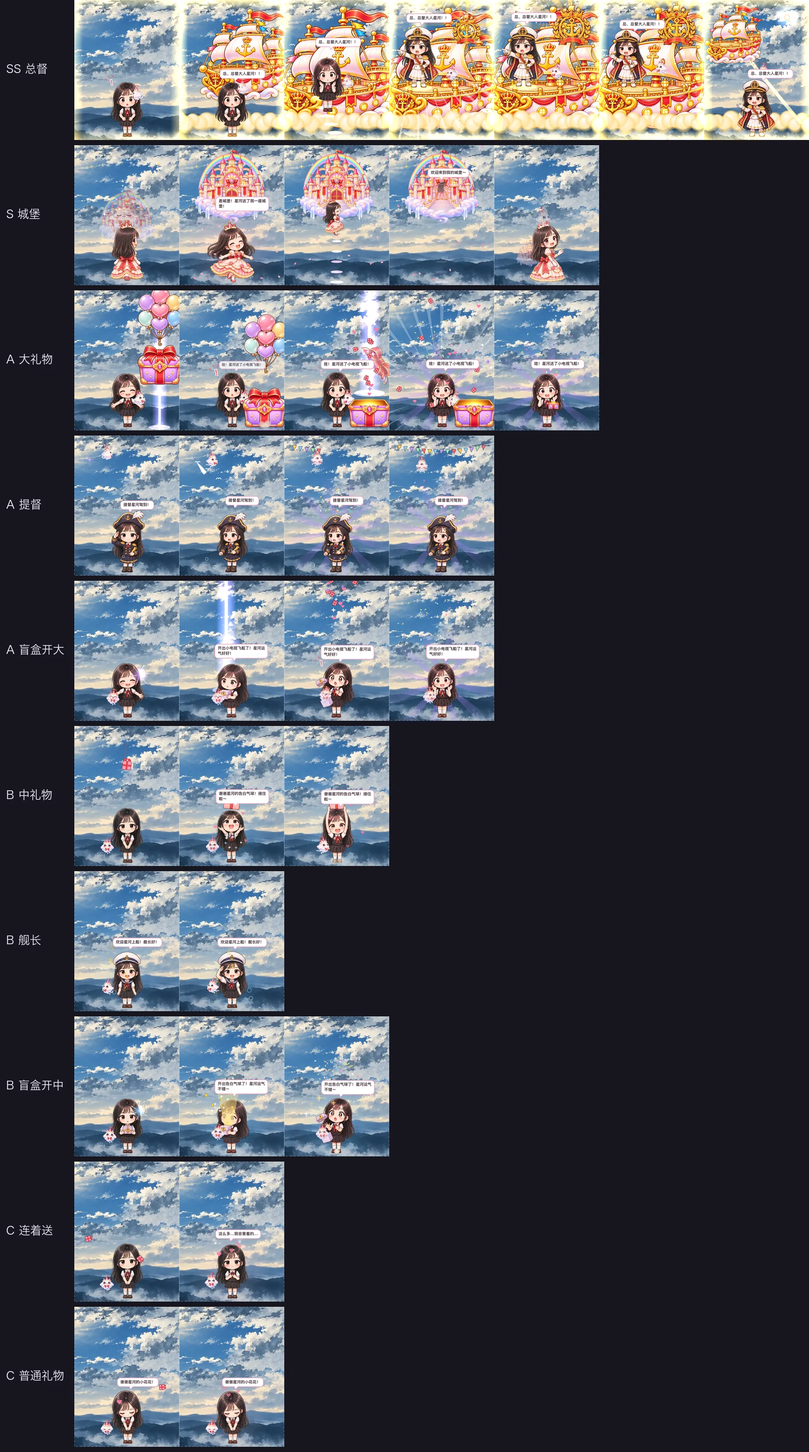
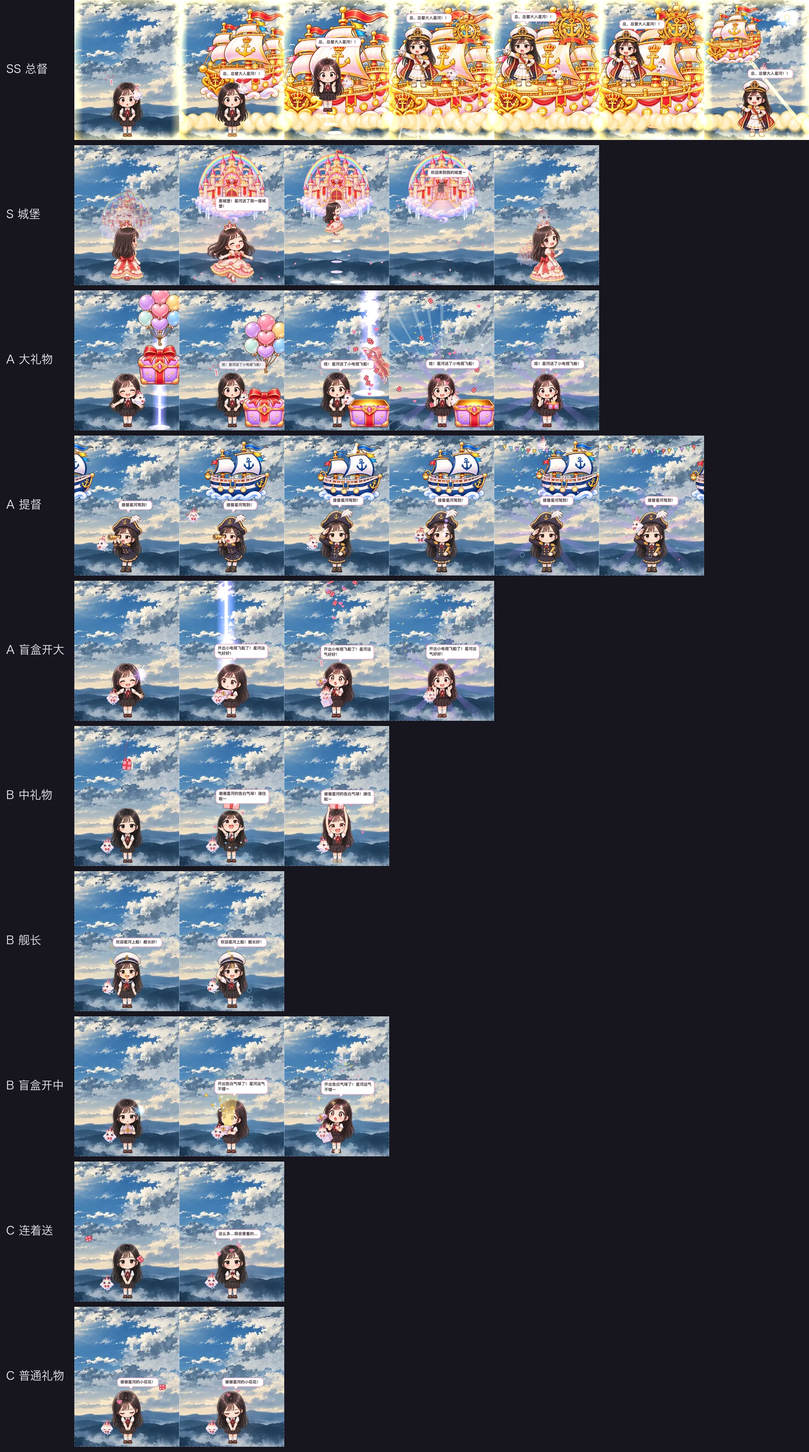
docs: the desktop pet's admiral gets her own ship, and the cheer, towel and hiking loops move right (#343)
The admiral's show was still too plain: her own ship (two masts, navy and white, less gold than the governor's flagship but not plain, drawn beside her at her size, 1.8 of her heights) now sails in from the left across the upper page behind her while she looks through the spyglass, sends a signal star from its masthead down onto her chest as she salutes, and sails out to the right under the signal flags. Cheering showed four arms at once (the drawing's arms stayed beside codex's): her upper body is now taken whole from the frames, the arms only wave a little inside the raised V, 220 ms a frame. The towel jumped from one side of her face to the other because its description said so; it now stays in the same hand on the same side. The hiking legs hardly moved; the walk is described stride, passing, other stride, passing, and gen-loop draws a walking loop again when its legs' outline changes less than 25% from frame 1. gen-loop now keeps codex's environment (it had dropped the proxy, and codex hung reconnecting).

diff --git a/docs/design/desktop-pet/boards/DP-DesktopPet.dc.html b/docs/design/desktop-pet/boards/DP-DesktopPet.dc.html
@@ -30,7 +30,8 @@ const BLOB = {
   emblem: '623e361fc77406c9262711ee81b482a5',
   giftbox: 'd3badcb665d3a5ab947c555dc35711a9',
   giftboxOpen: '3f6255e58365ab134617bb43ca9b477f',
-  balloons: 'd20bfdca5e26da967ed09c19e2171953'
+  balloons: 'd20bfdca5e26da967ed09c19e2171953',
+  admship: 'f20551b26d7a6b88d2a1290d07906da5'
 };
 // Every sheet's first cell is the same everyday standing drawing at the same size (gen-sheet.py draws the other cells
 // beside it), so it is every sheet's ruler and one scale fits them all.
@@ -49,12 +50,12 @@ const POSE = {
   capSalute: ['voyage', 1], govJump: ['voyage', 4], spyglass: ['voyage', 2], admSalute: ['voyage', 3], govPoint: ['voyage', 4], govWave: ['voyage', 5]
 };
 // Frame strips (textures/frames/<name>.webp, four frames in a row; tools/gen-frames.sh, tools/frame-patch.py), by blob.
-const FRAMES = {admOut: '8a8045355a623d68acfc52029c8841a7', admRaise: 'd2d4ed17ed52087444df30293d2696b0', announceIn: '67bd8c1e8793dc668515454c831f01f3', announceOut: '727cbd8779e3cfbeb66e63aea6d52986', awake: '7dff45f96f8afa599948e836d08db5ee', bikeIn: '1cfe277a82440613f6fcd68014743f29', bikeOut: '000db66bd517aa02f03e18662f6f5a30', bored: '9bde503d05645406b3874e7ce7c5e6f7', boredGloomy: '89b25f72028ce12e9ce60b50d2b2adf3', bowIn: '6c5a81a6ff12cc92171b1ee6a83dd3a6', boxOpen: 'fa71447b831ac81ca742010ff8b7ec57', brushUp: '0eab11425ea2c3573d1d10bfd9092105', capOut: '8017c7d6bdc433418c074ccc0844c3e9', capRaise: '30d30532e32f4da3275ce3bd0d329d73', cheer: 'd801de0c526dcfd5cdc102eefc1d1d53', cheerOut: '7aba5acd537b9c4f4b4517831cceaee3', clap: 'c5a840b398245670381c6e41cc24e575', clapOut: '0b358a767fbf33d45a4cf73452436b28', crackIn: '01cb1a37cda171945ad5ed38c58685b3', crackOut: 'bd2791d816ef5a7ec28baf9e63b75ed6', crashKnee: '3c91ba6cf61dbb7d27417076a3d1a731', crouchGloomy: '6dbf0a4983ab31b965aac41bdb8b2766', crownIn: 'aee77cc52647f785b17083bb8710ba70', curl: '4fb4dbdcdf8e689580a0b94d01496ece', curlDrop: '5b2591b3d2e7455d0925ca95bfd4ef1a', curlIn: 'cc1f3ee7a5a09af127ff69269dc61be3', curtsy: 'b90cd277e9f93a6e86d355bfd826e163', curtsyTurn: 'a0a880992fc33da52ca23c5097aafaf0', dejectedIn: '6c6565c56c617d26e938b33823a77b62', doze: '27f1f7d258dae9cd8c1a4f0fb4c34d1b', giftCheer: 'df0da21e74f2474f56868021a91fe58f', giftIn: '8664b6e7ebe4ef626cfcbaff7fd0eb2a', gloomy: '1ae6abc54fbb45127e4a865fd4ff92cd', gloomyDoze: '1d569f125c7cdf706445c14c0e5ab860', govIn: 'f0bce8e160a21d3193d7603201ec6649', govOut: '3c6eb6084d7a3f10ba50a50703cfcdc7', govPointWave: 'b39715eab29752d0c852deec88f1c14e', govWave: '23e285a2e68d30056546709df3889024', gymHop: 'e526af562be958ed4bce7b34f6e7658c', gymIn: '23317f355510b01999908ebce5c2c1db', gymOut: 'b655cfbb85b4a8caae52676563442c0d', hikeIn: '4e1c3d30d195ee5d86e39f3fba7a7968', hikeOut: '59cc9c8cead9e441af98f41d37481c11', hopSit: '79865866b71f0d6f54357e5a50175edd', hopeAnnounce: 'da03442a1df016febf5bc0d9cd27fcec', hopeCheer: 'd28ad9fc86c1e59dee6ac8b51d4dfd5d', hopeClap: 'a44decb7a7ed962d2cee38b91d243ac1', hopeIn: 'f608564e06e6cf0dda108cf0868a2d87', hopeNod: '25a897673f65574d54537b345029850c', hum: '037c3bf8f7fadbc5c2adaf0305899cf0', humIn: '76560ad0f962070a720ab211d69364d3', humWave: 'e8a2661f4ffbfacc50d77d3159160fdb', idle: '528beadfc04d1d591ee7057771afab95', jump: '46835a523d27d7b82fc2f2673657f47a', kneeRise: 'fe613d5ac8c1424cd4e6553675f88354', lookBackIn: 'fa859bb03ddf93d584c8e21b4d92545f', lookBackOut: 'e3539733da0c2b59f79eaea6866a7a37', mount: '2b24f3aa6d2a608407a22d4031f362ae', nod: '8d49e528bcd2aaa8bcd5e7d8fbe94aa5', nodOut: '4f274071432533a4f44522dd4b8baf89', openPout: 'f67dfabdde4d19fa468aecf56d8414d3', openSurprised: '708c47a6d8891f95daea06391cea0e48', pedal: '42c962e45330ceda6acffbc41ccf3069', pedalCrash: '3341dc19940eca3d4e7506d89609e6bb', pointIn: '1041f290497098db17e710fcffed6bbc', poutOut: 'f67ef4f471ea9058de6265f65e40a890', rubUp: 'e5632d8a7dea06e12b915dacf1d179d7', shakeBox: 'f4c6800928af98603e36db6314956857', shakeIn: '78ccb0fbac701231cf87785e5c5ecfe4', shakeSnow: '8268ccbbdfb89fd21b6029e07fba0f15', shy: 'a3abdceddc4d81cb31c39a7708617762', shyIn: '6e4c3085211198ef846005f9e527a08d', sitBored: '5d634deb99fd563d95762aae109de924', sitDoze: 'a95b681a7aa43c48df2861587b5bfae5', skiFall: '3dc757df0e22d502063953af3c5ec855', skiGlide: '2f6ea8efa98be75327342cce66054414', skiGo: 'f40b9977dcb4bcf241eac37a574c2d54', skiIn: 'fceb2834a0bd33e1dc3e0cfa0a205917', skiOut: '04a7e87a800b3c86f3aa7f45dd9100f3', skiPop: '6ff5bf2b70fe404b060325fef91af6cc', skiUp: '93e827573b0020cc33b933045459dd10', slipUp: '9146b4b71d48ce321f98622980fabf92', spFlag: '2e0e9fb19d5a8be126b12532f67cb877', spFly1: '83a5a48403903d4f39f9da51e0012294', spFly2: '87600b97c197c44a1cb9fc55cc76b84d', spFly3: '2f06f4e2aba9c2855b1c2fee22f6a1f4', spGlow: '0ae9d33e8e08c4cb20797bd64fcaeb0a', spHappy: '6fea3a2cde9432871a2a4a7b4b3a3b05', spHide: 'b3b7a681028216547fced194378e4642', spIdle: '70d620c5f164e57bd46e95154a9c8396', spNod: '631236e3cb235cf6e45d906ac4f70b41', spPat: '2e897fd4048e4fb2ba4e2fa9832931dd', spSleep: '5415e0a5fc476a9ac06e7427a3a9627c', spSurprised: '2a71af2381fb09f67fce34682a09c9e3', spYawn: '5dfd246affdea738a053630d72d7a726', spin: 'e4878b3f26f95745cc23b73f1ec071be', spinCurtsy: '9975e9a6a1a1968b344a8bf188423d91', spyRaise: '2d3ce641a512560c97e080a3cc39ce28', spySalute: 'b56e9494c23d8d3cd789e00f4ea9c907', surprisedCheer: '4da2805c40ccb8c90d12c1accec7f216', surprisedIn: '0d735d9fcd308c75bfe8adf66cff59d8', surprisedOut: 'a5776b0a77dc8a3b8d2f058d580a8956', trek: '1ae44e2bc4397524321578720f354589', trekIn: '0b9588db4b41791779771558e8b5064d', trekSlip: '8b403638ceb159d9731227ef6ef51474', walk: '6431ef43dbef6befe72a158e5cccdce7', wave: '273270295ba8e757e80c6e511b3955aa', waveIn: '45b35bc2f45fa3bf60405f8d5f4b20e6', wipe: 'd2e4c22d0fbe9a314220264802ca2019', wipeIn: 'd597045687c668c96935bf4a3dd615e1'};
+const FRAMES = {admOut: '8a8045355a623d68acfc52029c8841a7', admRaise: 'd2d4ed17ed52087444df30293d2696b0', announceIn: '67bd8c1e8793dc668515454c831f01f3', announceOut: '727cbd8779e3cfbeb66e63aea6d52986', awake: '7dff45f96f8afa599948e836d08db5ee', bikeIn: '1cfe277a82440613f6fcd68014743f29', bikeOut: '000db66bd517aa02f03e18662f6f5a30', bored: '9bde503d05645406b3874e7ce7c5e6f7', boredGloomy: '89b25f72028ce12e9ce60b50d2b2adf3', bowIn: '6c5a81a6ff12cc92171b1ee6a83dd3a6', boxOpen: 'fa71447b831ac81ca742010ff8b7ec57', brushUp: '0eab11425ea2c3573d1d10bfd9092105', capOut: '8017c7d6bdc433418c074ccc0844c3e9', capRaise: '30d30532e32f4da3275ce3bd0d329d73', cheer: 'bbc13f8939be672a6d9aa5f8dc980f30', cheerOut: '7aba5acd537b9c4f4b4517831cceaee3', clap: 'c5a840b398245670381c6e41cc24e575', clapOut: '0b358a767fbf33d45a4cf73452436b28', crackIn: '01cb1a37cda171945ad5ed38c58685b3', crackOut: 'bd2791d816ef5a7ec28baf9e63b75ed6', crashKnee: '3c91ba6cf61dbb7d27417076a3d1a731', crouchGloomy: '6dbf0a4983ab31b965aac41bdb8b2766', crownIn: 'aee77cc52647f785b17083bb8710ba70', curl: '4fb4dbdcdf8e689580a0b94d01496ece', curlDrop: '5b2591b3d2e7455d0925ca95bfd4ef1a', curlIn: 'cc1f3ee7a5a09af127ff69269dc61be3', curtsy: 'b90cd277e9f93a6e86d355bfd826e163', curtsyTurn: 'a0a880992fc33da52ca23c5097aafaf0', dejectedIn: '6c6565c56c617d26e938b33823a77b62', doze: '27f1f7d258dae9cd8c1a4f0fb4c34d1b', giftCheer: 'df0da21e74f2474f56868021a91fe58f', giftIn: '8664b6e7ebe4ef626cfcbaff7fd0eb2a', gloomy: '1ae6abc54fbb45127e4a865fd4ff92cd', gloomyDoze: '1d569f125c7cdf706445c14c0e5ab860', govIn: 'f0bce8e160a21d3193d7603201ec6649', govOut: '3c6eb6084d7a3f10ba50a50703cfcdc7', govPointWave: 'b39715eab29752d0c852deec88f1c14e', govWave: '23e285a2e68d30056546709df3889024', gymHop: 'e526af562be958ed4bce7b34f6e7658c', gymIn: '23317f355510b01999908ebce5c2c1db', gymOut: 'b655cfbb85b4a8caae52676563442c0d', hikeIn: '4e1c3d30d195ee5d86e39f3fba7a7968', hikeOut: '59cc9c8cead9e441af98f41d37481c11', hopSit: '79865866b71f0d6f54357e5a50175edd', hopeAnnounce: 'da03442a1df016febf5bc0d9cd27fcec', hopeCheer: 'd28ad9fc86c1e59dee6ac8b51d4dfd5d', hopeClap: 'a44decb7a7ed962d2cee38b91d243ac1', hopeIn: 'f608564e06e6cf0dda108cf0868a2d87', hopeNod: '25a897673f65574d54537b345029850c', hum: '037c3bf8f7fadbc5c2adaf0305899cf0', humIn: '76560ad0f962070a720ab211d69364d3', humWave: 'e8a2661f4ffbfacc50d77d3159160fdb', idle: '528beadfc04d1d591ee7057771afab95', jump: '46835a523d27d7b82fc2f2673657f47a', kneeRise: 'fe613d5ac8c1424cd4e6553675f88354', lookBackIn: 'fa859bb03ddf93d584c8e21b4d92545f', lookBackOut: 'e3539733da0c2b59f79eaea6866a7a37', mount: '2b24f3aa6d2a608407a22d4031f362ae', nod: '8d49e528bcd2aaa8bcd5e7d8fbe94aa5', nodOut: '4f274071432533a4f44522dd4b8baf89', openPout: 'f67dfabdde4d19fa468aecf56d8414d3', openSurprised: '708c47a6d8891f95daea06391cea0e48', pedal: '42c962e45330ceda6acffbc41ccf3069', pedalCrash: '3341dc19940eca3d4e7506d89609e6bb', pointIn: '1041f290497098db17e710fcffed6bbc', poutOut: 'f67ef4f471ea9058de6265f65e40a890', rubUp: 'e5632d8a7dea06e12b915dacf1d179d7', shakeBox: 'f4c6800928af98603e36db6314956857', shakeIn: '78ccb0fbac701231cf87785e5c5ecfe4', shakeSnow: '8268ccbbdfb89fd21b6029e07fba0f15', shy: 'a3abdceddc4d81cb31c39a7708617762', shyIn: '6e4c3085211198ef846005f9e527a08d', sitBored: '5d634deb99fd563d95762aae109de924', sitDoze: 'a95b681a7aa43c48df2861587b5bfae5', skiFall: '3dc757df0e22d502063953af3c5ec855', skiGlide: '2f6ea8efa98be75327342cce66054414', skiGo: 'f40b9977dcb4bcf241eac37a574c2d54', skiIn: 'fceb2834a0bd33e1dc3e0cfa0a205917', skiOut: '04a7e87a800b3c86f3aa7f45dd9100f3', skiPop: '6ff5bf2b70fe404b060325fef91af6cc', skiUp: '93e827573b0020cc33b933045459dd10', slipUp: '9146b4b71d48ce321f98622980fabf92', spFlag: '2e0e9fb19d5a8be126b12532f67cb877', spFly1: '83a5a48403903d4f39f9da51e0012294', spFly2: '87600b97c197c44a1cb9fc55cc76b84d', spFly3: '2f06f4e2aba9c2855b1c2fee22f6a1f4', spGlow: '0ae9d33e8e08c4cb20797bd64fcaeb0a', spHappy: '6fea3a2cde9432871a2a4a7b4b3a3b05', spHide: 'b3b7a681028216547fced194378e4642', spIdle: '70d620c5f164e57bd46e95154a9c8396', spNod: '631236e3cb235cf6e45d906ac4f70b41', spPat: '2e897fd4048e4fb2ba4e2fa9832931dd', spSleep: '5415e0a5fc476a9ac06e7427a3a9627c', spSurprised: '2a71af2381fb09f67fce34682a09c9e3', spYawn: '5dfd246affdea738a053630d72d7a726', spin: 'e4878b3f26f95745cc23b73f1ec071be', spinCurtsy: '9975e9a6a1a1968b344a8bf188423d91', spyRaise: '2d3ce641a512560c97e080a3cc39ce28', spySalute: 'b56e9494c23d8d3cd789e00f4ea9c907', surprisedCheer: '4da2805c40ccb8c90d12c1accec7f216', surprisedIn: '0d735d9fcd308c75bfe8adf66cff59d8', surprisedOut: 'a5776b0a77dc8a3b8d2f058d580a8956', trek: '618dc828f2bb538f4b79c5f87875d702', trekIn: '0b9588db4b41791779771558e8b5064d', trekSlip: '8b403638ceb159d9731227ef6ef51474', walk: '6431ef43dbef6befe72a158e5cccdce7', wave: '273270295ba8e757e80c6e511b3955aa', waveIn: '45b35bc2f45fa3bf60405f8d5f4b20e6', wipe: '425564cb708fb55366cc63907634a992', wipeIn: 'd597045687c668c96935bf4a3dd615e1'};
 // Poses that move: the strip f, drawn from the pose's own cell, as a loop at ms per frame, a loop of [frame, ms] steps, or
 // once: [frame, ms] steps from when the pose begins, holding the last.
 const STRIP = {
   bike: { f: 'pedal', ms: 110 }, hike: { f: 'trek', ms: 170 }, walkA: { f: 'walk', ms: 200 }, curl: { f: 'curl', ms: 200 },
-  hum: { f: 'hum', ms: 320 }, wave: { f: 'wave', ms: 150 }, clap: { f: 'clap', ms: 110 }, nod: { f: 'nod', ms: 190 }, cheer: { f: 'cheer', ms: 160 },
+  hum: { f: 'hum', ms: 320 }, wave: { f: 'wave', ms: 150 }, clap: { f: 'clap', ms: 110 }, nod: { f: 'nod', ms: 190 }, cheer: { f: 'cheer', ms: 220 },
   shy: { f: 'shy', ms: 220 }, gloomy: { f: 'gloomy', ms: 260 }, doze: { f: 'doze', ms: 700 }, gymHurt: { f: 'gymHop', ms: 140 }, gymWipe: { f: 'wipe', ms: 200 },
   shakeBox: { f: 'shakeBox', ms: 90 }, govWave: { f: 'govWave', ms: 170 }, spin: { f: 'spin', ms: 110 },
   idle: { f: 'idle', loop: [[0, 3400], [1, 50], [2, 70], [3, 50]] }, bored: { f: 'bored', loop: [[0, 2600], [1, 160], [2, 500], [3, 160]] },
@@ -127,8 +128,7 @@ const EVENT_FX = {
     shake: [[2800, 2, 200], [3400, 3, 260]]
   },
   提督: {
-    fx: [['shockwave', 700], ['splash', 700], ['distantStar', 1000, 2100, { x: 70, y: 110 }], ['comet', 3100, 1200, { x: 70, y: 110 }], ['spark', 4300, 0.55, 0.6, 12],
-      ['rays', 4300, 2400, 0.5], ['flagLine', 4300, 2600], ['confetti', 4400]],
+    fx: [['shockwave', 700], ['splash', 700], ['spark', 4300, 0.55, 0.6, 12], ['rays', 4300, 2400, 0.5], ['flagLine', 4300, 2600], ['confetti', 4400]],
     shake: [[700, 2, 200], [4300, 3, 240]]
   },
   城堡: {
@@ -206,6 +206,8 @@ const SPRITE_H = 76, NAME_MAX = 8;
 // flagship's bow deck where she stood when it was drawn, and its mainmast top for the sprite.
 const ANCHOR = 360;
 const PROPS = { flagship: { deck: [250, 530], mast: [450, 60] } };
+// The admiral's ship sails across the upper page behind her, farther off (s), its bottom on y; mast: its masthead (prop px).
+const ADM_SHIP = { x: 300, y: 300, s: 0.6, mast: [435, 25] };
 // Where the flagship's bow deck stops on the page: she stands there at her full size.
 const SHIP_DECK = { x: 133, y: 398 };
 // The sports (README 6), each in its own outfit: the sprite dresses her for it, she gets ready and goes for act ms; then
@@ -287,7 +289,7 @@ class Component extends DCLogic {
       if (im) this.sstrips[key] = [0, 1, 2, 3].map(i => ({ im, ...box(im, i * im.width / 4, 0, im.width / 4, im.height), cx: c.cx - c.ox + i * im.width / 4, cy: c.cy - c.oy, ruler: c.ruler }));
     }
     this.castle = { closed: img.castleClosed, open: img.castleOpen, box: box(img.castleClosed, 0, 0, img.castleClosed.width, img.castleClosed.height) };
-    this.props = { flagship: img.flagship, emblem: img.emblem, giftbox: img.giftbox, giftboxOpen: img.giftboxOpen, balloons: img.balloons };
+    this.props = { flagship: img.flagship, admship: img.admship, emblem: img.emblem, giftbox: img.giftbox, giftboxOpen: img.giftboxOpen, balloons: img.balloons };
     this.day = img.day;
     const idle = this.cells.common[0];
     this.herLeft = (idle.x - idle.cx) * H / idle.ruler;  // her left edge standing idle, from her centre
@@ -468,8 +470,14 @@ class Component extends DCLogic {
       case '提督':
         // dressed by the sprite, then it is her lookout: it flies ahead where she looks, signals with its flag, and comes
         // back to salute with her
-        // she sights a star far up at the top left; it comes down as a comet onto her chest and she salutes while the
-        // sprite strings signal flags across the top of the page
+        // she sights her ship through the spyglass: it sails in from the left across the upper page, behind her; as it
+        // passes, a signal star from its masthead comes down onto her chest and she salutes, the sprite strings signal
+        // flags across the top, and the ship sails on out to the right
+        {
+          const im = this.props.admship, k = H / ANCHOR * ADM_SHIP.s, x = -im.width * k / 2 + (ADM_SHIP.x + im.width * k / 2) * ease(k01(t, 900, 3000)) + (PAGE.w + im.width * k / 2 - ADM_SHIP.x) * ease(k01(t, 4600, 6600));
+          st.admShip = { x, y: ADM_SHIP.y + 4 * Math.sin(t / 450), a: k01(t, 900, 1300) };
+          st.fx.push(['comet', 3100, 1200, { x: x + (ADM_SHIP.mast[0] - im.width / 2) * k, y: ADM_SHIP.y - (im.height - ADM_SHIP.mast[1]) * k }]);
+        }
         if (t < 700) this.dress(st, t, 0, 700);
         else {
           st.pose = t < 3100 ? 'spyglass' : 'admSalute';
@@ -755,6 +763,7 @@ class Component extends DCLogic {
     const shake = this.shakeOf(st, now); g.translate(shake.x, shake.y);
     if (st.castle) this.drawCastle(g, st.castle);
     if (st.ship) this.drawShip(g, st.ship);
+    if (st.admShip) this.drawProp(g, this.props.admship, st.admShip.x, st.admShip.y, ADM_SHIP.s, st.admShip.a);
     if (st.emblem) this.drawProp(g, this.props.emblem, st.emblem.x, st.emblem.y + this.props.emblem.height * H / ANCHOR * st.emblem.s / 2, st.emblem.s, st.emblem.a);
     const rt = performance.now(), dt = Math.min(100, rt - (this.rt ?? rt)) * this.cfg.speed;
     this.rt = rt;
@@ -1242,14 +1251,7 @@ class Component extends DCLogic {
         }
         break;
       }
-      // the admiral sights a star far off at the top left through the spyglass ...
-      case 'distantStar': {
-        const dur = f[2] || 2000; if (t > dur) break;
-        const p = f[3], a = life(t, 300, dur - 600, 300);
-        if (t < 500) { g.save(); g.globalAlpha = 1 - t / 500; g.strokeStyle = glow(1); g.lineWidth = 3; g.beginPath(); g.arc(p.x, p.y, 20 + t * 0.08, 0, Math.PI * 2); g.stroke(); g.restore(); }
-        star(p.x, p.y, (12 + 4 * Math.sin(t / 120)) * a, '#fff', a); star(p.x, p.y, 20 * a, glow(1), 0.5 * a); break;
-      }
-      // ... which comes down as a comet across the whole page onto her chest
+      // a signal star coming down as a comet across the page onto her chest (from the admiral's masthead)
       case 'comet': {
         const dur = f[2] || 1200; if (t > dur) break;
         const p0 = f[3], p1 = at(0.55, 0.6), pos = u => { const p = (u / dur) ** 1.6; return { x: p0.x + (p1.x - p0.x) * p, y: p0.y + (p1.y - p0.y) * p - 60 * Math.sin(Math.PI * p) }; };

diff --git a/docs/design/desktop-pet/preview/tier-storyboards.html b/docs/design/desktop-pet/preview/tier-storyboards.html
@@ -103,7 +103,7 @@ a:focus-visible { outline: 2px solid var(--gold); outline-offset: 2px; }
   </section>
 
   <section class="tier" style="--c:#c4a2ff">
-    <div class="tierhead"><h2>A 提督、大礼物、盲盒开出 1 万以上</h2><span>5–7 秒 · 紫色带金点 · 整页上下，但没有建筑：一样东西从页面顶上下来或冲到顶上去</span></div>
+    <div class="tierhead"><h2>A 提督、大礼物、盲盒开出 1 万以上</h2><span>5–7 秒 · 紫色带金点 · 整页上下：一样东西从页面顶上下来或冲到顶上去；提督有自己的船从身后驶过</span></div>
     <h3>大礼物（1 万电池以上）约 6 秒</h3>
     <div class="maps" data-maps="bigGift"></div>
     <div class="tablebox"><table class="sb">
@@ -120,9 +120,9 @@ a:focus-visible { outline: 2px solid var(--gold); outline-offset: 2px; }
     <div class="tablebox"><table class="sb">
       <tr><th>时间</th><th>画面</th><th>用到哪</th></tr>
       <tr><td>① 0–1 秒</td><td>精灵转圈，换上提督服</td><td>她</td></tr>
-      <tr><td>② 1–3 秒</td><td>她举起望远镜望向左上；页面左上角远处一颗紫金色的星闪起，那里一圈望远镜视野似的光环一闪</td><td>她 → 左上</td></tr>
-      <tr><td>③ 3–4.5 秒</td><td>那颗星化成彗星，拖着紫色长尾从左上斜划过整页，落到她胸前，紫金光芒炸开、震一下</td><td>对角线整页</td></tr>
-      <tr><td>④ 4.5–6.5 秒</td><td>她敬礼；精灵从左到右拉一串彩色信号旗横过页面上沿（船上庆典挂满旗）；身后光芒、彩带</td><td>上沿、她</td></tr>
+      <tr><td>② 1–3 秒</td><td>她举起望远镜望向左边：她的提督舰（比旗舰小、两根桅杆、藏蓝白色）从左边驶进来，在她身后横过页面上半部</td><td>左 → 上半页</td></tr>
+      <tr><td>③ 3–4.5 秒</td><td>船驶过正中时桅顶发出一颗信号星，化成彗星拖着紫色长尾落到她胸前，紫金光芒炸开、震一下</td><td>上半页 → 她</td></tr>
+      <tr><td>④ 4.5–6.5 秒</td><td>她敬礼；精灵从左到右拉一串彩色信号旗横过页面上沿；船往右边驶出去；身后光芒、彩带</td><td>上沿、右</td></tr>
       <tr><td>⑤ 6.5–7 秒</td><td>精灵转圈换回</td><td>她</td></tr>
     </table></div>
 
@@ -271,7 +271,7 @@ const MAPS = {
     { title: '开盒、欢呼 ④⑤', items: [['rays', 200, 500], ['beam', 350, 0, 470], ['rect', 290, 470, 120, 140, '大礼盒'], ['arrow', [[330, 150], [380, 70], [430, 0]], '③ 气球飞走', [400, 120]], ['bursts', [[110, 110], [240, 60], [440, 230], [70, 280], [200, 220]], 20], ['label', 200, 160, '④ 光柱到顶、礼物喷满'], ['rain', 1], ['her', 200, 626]] }
   ],
   admiral: [
-    { title: '望远镜、彗星、满旗 ②–④', items: [['flags', 34, 20, 460], ['label', 240, 74, '④ 信号旗横过上沿'], ['circle', 70, 130, 26, ''], ['label', 96, 176, '② 左上远处一颗星'], ['arrow', [[215, 440], [150, 300], [92, 160]], '', null, true], ['arrow', [[90, 160], [180, 320], [236, 468]], '③ 彗星斜划整页', [330, 300]], ['rays', 240, 480], ['her', 240, 626]] }
+    { title: '提督舰驶过、信号星、满旗 ②–④', items: [['flags', 34, 20, 460], ['label', 240, 74, '④ 信号旗横过上沿'], ['rect', 160, 70, 280, 230, '提督舰（上半页）'], ['arrow', [[10, 200], [80, 190], [150, 195]], '② 从左边驶进', [90, 250]], ['arrow', [[440, 200], [460, 195], [478, 200]], ''], ['label', 420, 320, '④ 往右驶出'], ['arrow', [[215, 440], [120, 300], [40, 210]], '', null, true], ['arrow', [[220, 110], [260, 300], [236, 468]], '③ 信号星落到胸前', [340, 380]], ['rays', 240, 480], ['her', 240, 626]] }
   ],
   boxA: [
     { title: '开盒 ②③', items: [['beam', 240, 0, 470], ['circle', 240, 200, 40, '② 大星'], ['bursts', [[90, 150], [400, 130], [120, 330], [370, 320]], 22], ['label', 240, 28, '③ 炸开、洒满整页'], ['rain', 1], ['her', 240, 626]] }

diff --git a/docs/design/desktop-pet/tools/gen-loop.py b/docs/design/desktop-pet/tools/gen-loop.py
@@ -3,12 +3,14 @@
 python gen-loop.py <pose> <out dir> [--tries 3]
 
 gen-frames.sh hands codex the cell as frame 1 of a 2 x 2 grid and codex draws frames 2-4 beside it; frame-patch.py
-keeps only what moves (OPTIONS per pose). Every frame's face is then measured against the cell's own (petlib.find_face, the two
-eyes together): a frame more than GATE bigger or smaller is drawn again, the whole loop, up to --tries times; frames whose
-eyes cannot be found (closed, turned away) are not measured. Nothing is scaled afterwards.
+keeps only what moves (OPTIONS per pose). Every frame's face is then measured against the cell's own (petlib.find_face,
+the two eyes together): a frame more than GATE bigger or smaller is drawn again, the whole loop, up to --tries times;
+frames whose eyes cannot be found (closed, turned away) are not measured. A walking loop whose legs hardly change is drawn
+again too (LEGS_MOVE). Nothing is scaled afterwards.
 
 Out: <strip>-strip.png (the four frames in a row, each the cell's size, as the board plays them) and <strip>-check.png.
 """
+import os
 import subprocess
 import sys
 from pathlib import Path
@@ -22,10 +24,14 @@ GATE = 0.06
 # frame-patch.py options: the head kept where it does not move; frame 1 the drawing itself for a loop played in its place
 # (a blink); codex's frame 1 as the base where its still parts do not meet the drawing (the bike); the legs always taken
 # from the frames for walking (nothing of the drawing's feet left behind)
-OPTIONS = {"wave": ["--head"], "clap": ["--head"], "cheer": ["--head"], "curl": ["--head"], "shakeBox": ["--head"],
+OPTIONS = {"wave": ["--head"], "clap": ["--head"], "cheer": ["upper", "--head"], "curl": ["--head"], "shakeBox": ["--head"],
            "govWave": ["--head"], "gymWipe": ["--head"], "capSalute": ["--head"], "admSalute": ["--head"],
            "spyglass": ["--head"], "bike": ["--head", "--from-first"], "idle": ["--ref-first"], "bored": ["--ref-first"],
            "hike": ["legs"], "walkA": ["legs"]}
+# loops whose legs must stride: frame 3 is the other stride and frame 2 passes between, so at least LEGS_GATE of the legs'
+# outline changes from frame 1 in each (codex drew the hiking legs almost the same in every frame: 0.07 in frame 3); the
+# castle walk (feet under a gown) and pedalling change a smaller area and are not held to it
+LEGS_MOVE, LEGS_GATE = {"hike"}, 0.25
 
 
 def main():
@@ -42,9 +48,11 @@ def main():
     cell = cells(SHEET[key])[i]
     opts = []
     for o in OPTIONS.get(pose, []):
+        x0, y0, x1, y1 = bbox(cell)
         if o == "legs":  # the lower 40% of her, across her whole width
-            x0, y0, x1, y1 = bbox(cell)
             opts += ["--take", f"{x0 - 10},{int(y0 + 0.6 * (y1 - y0))},{x1 + 10},{y1 + 4}"]
+        elif o == "upper":  # her upper 55%, arms and all, so no arm of the drawing's stays beside codex's (four arms)
+            opts += ["--take", f"{x0 - 40},{max(0, y0 - 40)},{x1 + 40},{int(y0 + 0.55 * (y1 - y0))}"]
         else:
             opts.append(o)
     face = eye_ref(standing())
@@ -54,7 +62,7 @@ def main():
     for t in range(tries):
         name = f"{strip}-try{t + 1}"
         try:
-            subprocess.run(["zsh", str(T / "gen-frames.sh"), str(out), name, ref, strip], check=True, cwd=PKG, env={"PYTHON": py, "PATH": "/usr/bin:/bin:/usr/local/bin:/opt/homebrew/bin"}, capture_output=True, timeout=900)
+            subprocess.run(["zsh", str(T / "gen-frames.sh"), str(out), name, ref, strip], check=True, cwd=PKG, env={**os.environ, "PYTHON": py}, capture_output=True, timeout=900)
             subprocess.run([py, "-I", str(T / "frame-patch.py"), *opts, ref, str(out / f"{name}-frames.png"), str(out / f"{name}.png"), str(out / f"{name}-check.png")], check=True, cwd=PKG, capture_output=True)
         except subprocess.CalledProcessError as e:
             print(f"try {t + 1}: {e.stderr.decode()[-300:] if e.stderr else 'failed'}")
@@ -66,7 +74,14 @@ def main():
             m, _, _, sc = find_face(s[:, k * w:(k + 1) * w], face)
             sizes.append(sc / s0 if m >= FACE_MATCH and m0 >= FACE_MATCH else None)
         off = max([abs(v - 1) for v in sizes if v is not None], default=0)
-        print(f"try {t + 1}: faces " + " ".join("-" if v is None else f"x{v:.2f}" for v in sizes))
+        moved = None
+        if pose in LEGS_MOVE:  # how much of her legs' outline differs from frame 1 in frames 2 and 3
+            x0, y0, x1, y1 = bbox(cell)
+            legs = [s[int(y0 + 0.6 * (y1 - y0)):y1 + 4, k * w + max(0, x0 - 10):k * w + x1 + 10, 3] > 40 for k in range(4)]
+            moved = min(1 - (legs[0] & legs[k]).sum() / (legs[0] | legs[k]).sum() for k in (1, 2))
+            if moved < LEGS_GATE:
+                off = max(off, 1)  # the legs did not stride: drawn again
+        print(f"try {t + 1}: faces " + " ".join("-" if v is None else f"x{v:.2f}" for v in sizes) + ("" if moved is None else f"; legs changed {moved:.2f}"))
         if best is None or off < best[0]:
             best = (off, name)
         if off <= GATE:

diff --git a/docs/design/desktop-pet/tools/gen-prop.py b/docs/design/desktop-pet/tools/gen-prop.py
@@ -27,7 +27,8 @@ GATE = 0.04  # how far codex may redraw her bigger or smaller
 PROPS = {"flagship": ((1536, 1024), (170, 990), [], (2.0, 2.45)),
          "emblem": ((1024, 1024), (230, 900), [], None),
          "giftbox": ((1024, 1024), (300, 900), [], None),
-         "balloons": ((1024, 1024), (230, 900), [], None)}
+         "balloons": ((1024, 1024), (230, 900), [], None),
+         "admship": ((1536, 1024), (170, 990), [PKG / "textures/flagship.webp"], (1.5, 1.9))}
 DRAW = ("Use your built-in image generation tool (not code) to edit the LAST attached image into ONE new image, then copy "
         "the generated PNG file to {out}. Do not write any code. The last attached image is a canvas of perfectly flat "
         "solid #00FF00 green with a chibi girl already standing in it: keep her exactly as she is, the same size, in the "

diff --git a/docs/design/desktop-pet/README.md b/docs/design/desktop-pet/README.md
@@ -111,12 +111,12 @@
 | 盲盒开中 | B | 摇盲盒（盒缝透出蓝光）→ 打开 → 惊讶 → 欢呼 | 凑近听 → 被冲开、惊讶 → 在她旁边蹦 | 盒里射出光、金币和星星喷到页面中段 | 盲盒开中 | 4 秒 |
 | 盲盒开大 | A | 摇盲盒（盒缝透出紫光）→ 打开，紫色光柱冲到页面顶，一颗大星升到页面中上 → 大星炸开，星光、爱心、小礼物洒满整页 → 惊讶 → 欢呼 | 凑近听 → 被冲开、惊讶 → 在她旁边蹦 | 紫色旋转光芒、集中线、彩带 | 盲盒开大 | 6 秒 |
 | 大礼物 | A | 一束紫光从页面顶上打到她右前方 → 一束气球吊着大礼盒顺着光飘下来、落地（她转头惊讶）→ 气球飞走，盒盖弹飞，紫色光柱冲到页面顶，星星、爱心、小礼物喷满上半页再落下 → 欢呼 → 礼盒缩成一颗星飞进她怀里 | 抬头看 → 被她抛起、绕她转圈 | 紫色旋转光芒铺满整页、集中线、彩带 | 大礼物 | 6 秒 |
-| 提督 | A | 精灵转圈换装 → 举起望远镜望向左上，远处一颗星一闪 → 星化成彗星斜划过整页落到她胸前 → 抬手敬礼 → 精灵转圈换回 | 转圈换装、换上水手领，飞去她望远镜看的方向挥旗，再从左到右拉一串信号旗横过页面上沿（船上庆典挂满旗），最后转圈换回 | 换装闪光、海鸥、彗星、紫色光芒、信号旗、彩带 | 提督 | 7 秒 |
+| 提督 | A | 精灵转圈换装 → 举起望远镜望向左边：她的提督舰从左边驶进来，在她身后横过页面上半部 → 船驶过正中时桅顶发出一颗信号星，化成彗星落到她胸前 → 抬手敬礼 → 船往右边驶出去 → 精灵转圈换回 | 转圈换装、换上水手领，飞去她望远镜看的方向挥旗，再从左到右拉一串信号旗横过页面上沿（船上庆典挂满旗），最后转圈换回 | 提督舰、换装闪光、海鸥、彗星、紫色光芒、信号旗、彩带 | 提督 | 7 秒 |
 | 总督 | SS | 页面四边亮起金光，她抬头惊讶 → 金色云海从两边卷进来，旗舰从右上远处迎着镜头开过来、停下 → 精灵插旗、转圈换装 → 她脚边到船头铺开金光阶梯，三步跳上船头 → 指向前方：光柱打在她身上，金色徽章升起，三朵烟花，满页金色彩带雨 → 挥手 → 跳回原位，旗舰往左上远处开走、留下斜贯整页的金色航迹，最后一轮烟花 → 精灵转圈换回 | 飞上主桅杆顶插旗、挥旗，最后飞回来转圈换回 | 四边金光、金色云海、光柱、金色光芒、烟花、金色彩带雨、航迹、两次震屏 | 总督 | 15 秒 |
 | 城堡 | S | 见第 5 节 | 变回原型城堡 | 见第 5 节 | 城堡 | 11.5 秒 |
 | 新的第一名（追加段） | 跟主演出 | 扶着王冠比 V | 捧王冠飞到她头顶放下 | 王冠落下时一圈金光 | 新的第一名 | 2.5 秒 |
 
-大航海三档逐级升级：舰长只换一顶帽子加一个动作；提督换整套衣服、加一个道具和一颗彗星；总督换衣服、上旗舰，场面最大、最长，金色只有它用。服装见 `textures/fleet-sheet.webp`（两张对比在 `preview/fleet-sheets.webp`，选的 b）：
+大航海三档逐级升级：舰长只换一顶帽子加一个动作；提督换整套衣服，有自己的提督舰从身后驶过（比旗舰小、两根桅杆、藏蓝白色、金色少，但不朴素；用户看过第一版说提督还是寒酸，提督也该有提督等级的船）；总督换衣服、登上迎面开来的旗舰，场面最大、最长，金色只有它用。服装见 `textures/fleet-sheet.webp`（两张对比在 `preview/fleet-sheets.webp`，选的 b）：
 
 | 档 | 服装 |
 |---|---|
@@ -268,7 +268,7 @@
 | D 日常、心情 | — | 只有漫符和小动作粒子（汗、扬尘、音符），不发光；心情的漫符隔一阵出现一次 |
 | C | 白、淡粉 | 一个漫符、一小团星光、淡光晕 |
 | B | 海蓝 | 再加**地上的光圈、往上飘到页面中段的东西（小锚、金币、爱心）**，轻震 |
-| A | 紫，带金点 | 再加**身后旋转光芒铺满整页、集中线、彩色彩带、冲到页面顶的光柱**，高潮震一下 |
+| A | 紫，带金点 | 再加**身后旋转光芒铺满整页、集中线、彩色彩带、冲到页面顶的光柱、提督舰**，高潮震一下 |
 | S 城堡 | 粉、粉彩虹 | 再加**城堡、变身公主、满页花瓣、彩虹、台阶亮起、塔尖星光**；不用金色、不放烟花 |
 | SS 总督 | 金、白光 | 再加**页面四边的金光、金色云海、旗舰、金色徽章、烟花、满页金色彩带雨、金光阶梯、航迹、两次震屏** |
 
@@ -289,7 +289,7 @@
 | 盲盒开中 | 摇盒的抖动弧线、盒缝透蓝光；打开时金币星星喷到页面中段、轻震；惊讶时"!"和惊吓线；欢呼落地一圈光圈 |
 | 盲盒开大 | 摇盒的抖动弧线、盒缝透紫光；打开时紫色光柱冲到页面顶、大星升起、炸开成满页星光和小礼物、震一下；欢呼时紫色旋转光芒、集中线、彩带 |
 | 大礼物 | 紫光从页面顶上打下来；礼盒落地时扬尘、光圈、轻震；开盒时紫色光柱、满上半页的星星爱心小礼物；欢呼时紫色旋转光芒、集中线、彩带、爱心 |
-| 提督 | 换装时光圈、水花；左上远处一颗星一闪，化成彗星斜划过整页，落到胸前时一圈星光、震一下；信号旗横过页面上沿；紫色光芒、彩带 |
+| 提督 | 换装时光圈、水花；提督舰从左边驶进、横过上半页；桅顶的信号星化成彗星落到胸前时一圈星光、震一下；信号旗横过页面上沿；紫色光芒、彩带；船往右驶出 |
 | 总督 | 页面四边金光、"!"和惊吓线；金色云海卷进来，旗舰停下时震；金光阶梯；船头指向前方时光柱、金色徽章和身后金色光芒、三朵烟花、满页金色彩带雨、再震一下；旗舰开走时金色航迹和最后一轮烟花 |
 | 城堡 | "!"、转圈变身时一圈星星、屈膝礼时光晕和花瓣，走上台阶时台阶一级级亮粉光，门口挥手时塔尖冒粉色星光，跑回来落地时扬尘和光圈，城堡升起时轻震 |
 | 抽奖 | 宣布时聚光灯、"!"、彩带；截止时惊吓线和汗；转动时绕她转的星星；点名时聚光灯、"!"、手指方向一团星星；揭晓前一直冒汗；大奖时集中线、光芒、光晕、震一下，二奖光晕和彩带，三奖一团星星和爱心；没人报名时阴影竖线、小乌云下雨、一片枯叶飘过 ；抽奖结束时淡光晕、几颗爱心、挥手时一团星星 |
@@ -346,6 +346,7 @@
 - 公主装：已出，设定图 `textures/princess-sheet.webp`（选的 b，两张对比在 `preview/princess-sheets.webp`）。
 - 舰长、提督、总督三套服装：已出，见第 3 节。
 - 旗舰（总督）：`textures/flagship.webp`。四分之三视角朝镜头开来，船头和船头甲板在左下前景、船尾在右上远处；圆胖的珍珠白船身、宽金带和金卷纹、红金帷幔、金框舷窗和小灯笼，三根桅杆挂米白满帆、最大那面是金锚加皇冠，红旗和彩色信号旗，船首像是金色锚加皇冠配月桂卷纹（不是小生物），船底是白金色的卷云浪；不画炮。她站在旁边一起生成（她 360 px，船约是她的 2.2 倍高），她站的船头甲板和主桅顶在看板 `PROPS` 里。第一次让 codex 把船画在她脚下，它总把她缩小 15–20% 去迁就船，改成她站在旁边当尺子、量船的高度。原来的侧面白蓝大船（她站上去缩到六成）已删。
+- 提督舰：`textures/admship.webp`。旗舰的小妹妹：侧面稍带四分之三、往右开，圆胖的藏蓝船身、白腰线、细金边，船头一只小金锚（没有皇冠），两根桅杆挂白帆、藏蓝边，大帆上一只藏蓝锚，蓝色长旗和几面彩色信号旗，船尾一盏小灯，船底白和浅蓝的卷云浪；不画炮。和她一起生成（她 360 px，船约是她的 1.7 倍高），看板上画在她身后远处（`ADM_SHIP`）。
 - 金色徽章（总督高潮）：`textures/emblem.webp`，金色绳圈里一只金锚，上面一顶船帆船首做尖的海军冠、红宝石，两侧月桂枝，底下一条空白红绶带；我们自己设计，不用 B 站大航海图标。
 - 大礼盒（大礼物）：`textures/giftbox.webp`、`giftbox-open.webp`，到她胸口高的淡紫礼盒、金边金角、红缎带大蝴蝶结、粉宝石扣；开的那张只取盒子上半截（盒盖飞走、盒里发光），下半截和关着的一样，切换不跳；飞走的盒盖由代码取关着那张的上半截画。气球 `textures/balloons.webp`：七个淡紫、粉、淡金、薄荷、天蓝的气球，两个心形，单独一张，好在落地后松开飞走。
 - 道具都和她（360 px 的站姿）放在同一张图里生成（`tools/gen-prop.py`），尺寸和线条粗细才和她一致。
@@ -364,7 +365,7 @@
 - `patch-box.py <原图> <改过的> <输出> <x0,y0,x1,y1> [羽化] [alpha]`：只把一个方框贴回原图，边缘柔和，框外一个像素不动；加 `alpha` 时连透明度一起取。
 - `key-box.py <原图> <绿底上改过的> <输出> <x0,y0,x1,y1>`：改动超出轮廓时用。透明底上直接改，codex 会在周围留一圈半透明光晕；先把原图放到纯绿底上改，再按绿色抠回那个方框。
 - `gen-frames.sh <目录> <名字> <原图> [<描述>]`：一组循环帧（一个姿势原地在动）。原图写成 `textures/pose-1-common.webp:2`（3 × 2 表的第 2 格）、`textures/sprite-views.webp:3/4x1` 或单张；原图原样贴在绿底 2 × 2 格子的第 1 格交给 codex（`frame-patch.py --grid`），它照 `frames/<描述>.txt` 画其余三帧，大小跟着第 1 帧；不要画的东西在 `frames-negative.txt`（和 `inbetween.py` 共用）。绿底比透明底干净，codex 在透明底上会留一圈半透明光晕。动作描述要从原图本来的姿势写起：爬山原图是走路迈步，第一次写成原地抬腿，出来的帧把后脚往外踢、鞋底朝前，用户说脚部动作很奇怪；改成走路循环（迈步、两腿交错、换另一只脚迈步、交错），写明脚贴着地、不踢、鞋底不朝前，重出。
-- `gen-loop.py <姿势> <目录> [--tries 3]`：看板 `STRIP` 里一个姿势的帧条：`gen-frames.sh` 加 `frame-patch.py`（每个姿势用哪些选项写在 `OPTIONS`），每帧量脸，比原格大或小 6% 以上就整组重画；出 `<帧条>-strip.png` 和 `-check.png`。
+- `gen-loop.py <姿势> <目录> [--tries 3]`：看板 `STRIP` 里一个姿势的帧条：`gen-frames.sh` 加 `frame-patch.py`（每个姿势用哪些选项写在 `OPTIONS`），每帧量脸，比原格大或小 6% 以上就整组重画；走路的循环（爬山）腿的轮廓在第 2、3 帧要和第 1 帧有 25% 以上不同，不然也重画（第一次 codex 每帧的腿几乎一样，用户说爬山腿没动）。欢呼整块取上半身（`OPTIONS` 的 `upper`），不然原格的手臂会留在生成的手臂旁边，一帧里出现四只手（用户说像千手观音），手臂也只在举起的 V 里小幅摆、每帧 220 毫秒。擦汗的描述写明毛巾一直在同一只手、同一边额头小幅擦（原来写的是擦到另一边，毛巾左右跳）。出 `<帧条>-strip.png` 和 `-check.png`。
 - `frame-patch.py [--from-first | --ref-first] [--box x0,y0,x1,y1] [--take x0,y0,x1,y1] [--head] <原图> <四帧.png> <输出.png> [预览.png]`：把循环的四帧做成不抖的帧条。抠绿、对齐用 `petlib`；只取帧之间真正在动的部位（自动找，或限在 `--box` 里），别处用原图的像素。codex 把不动的部分画得太不一样、接缝对不上时（第一次蹬车时车架出现两根管子），加 `--from-first` 用它的第 1 帧当底。`--head` 头不动就整颗用原图的头（见第 1.2 节），不再缩放贴脸。`--ref-first` 让第 1 帧就是原图，给替代原图播放的循环用（待机眨眼）。`--take x0,y0,x1,y1` 让这一块每帧（连第 1 帧）都整块取生成的帧，给一直在动的部位用（走路的腿）。`--grid <原图> <输出>` 出交给 codex 的格子。
 - `inbetween.py <名字> <开始的姿势> <结束的姿势> <目录> [--tries 2]`：换姿势的中间帧（见第 1.2 节）：两个姿势按看板的样子放进一张 2 × 2 格子的第 1、4 格交给 codex，它照 `frames/<名字>.txt` 画中间两格；四帧按第 1 帧对上开始姿势一起摆好，第 4 帧落不上结束姿势、或中间两帧的脸（两只眼睛一起量）不在两头之间就重画；出 `<名字>-strip.png`（结束姿势放不进开始那格时存进结束那格、倒着放）和 `<名字>-check.png`（开始、第 2、3 帧、结束并排），最后一行是看板 `TRANS` 里要写的那一条。
 - `petlib.py`：各工具共用的部分（看板的 `POSE`、`STRIP`、`TRANS`，各表按看板缩放、地面线、重心，找连通块、皮肤、眼睛，抠绿、对齐 codex 的帧、重采样），改一处所有工具一起改。
